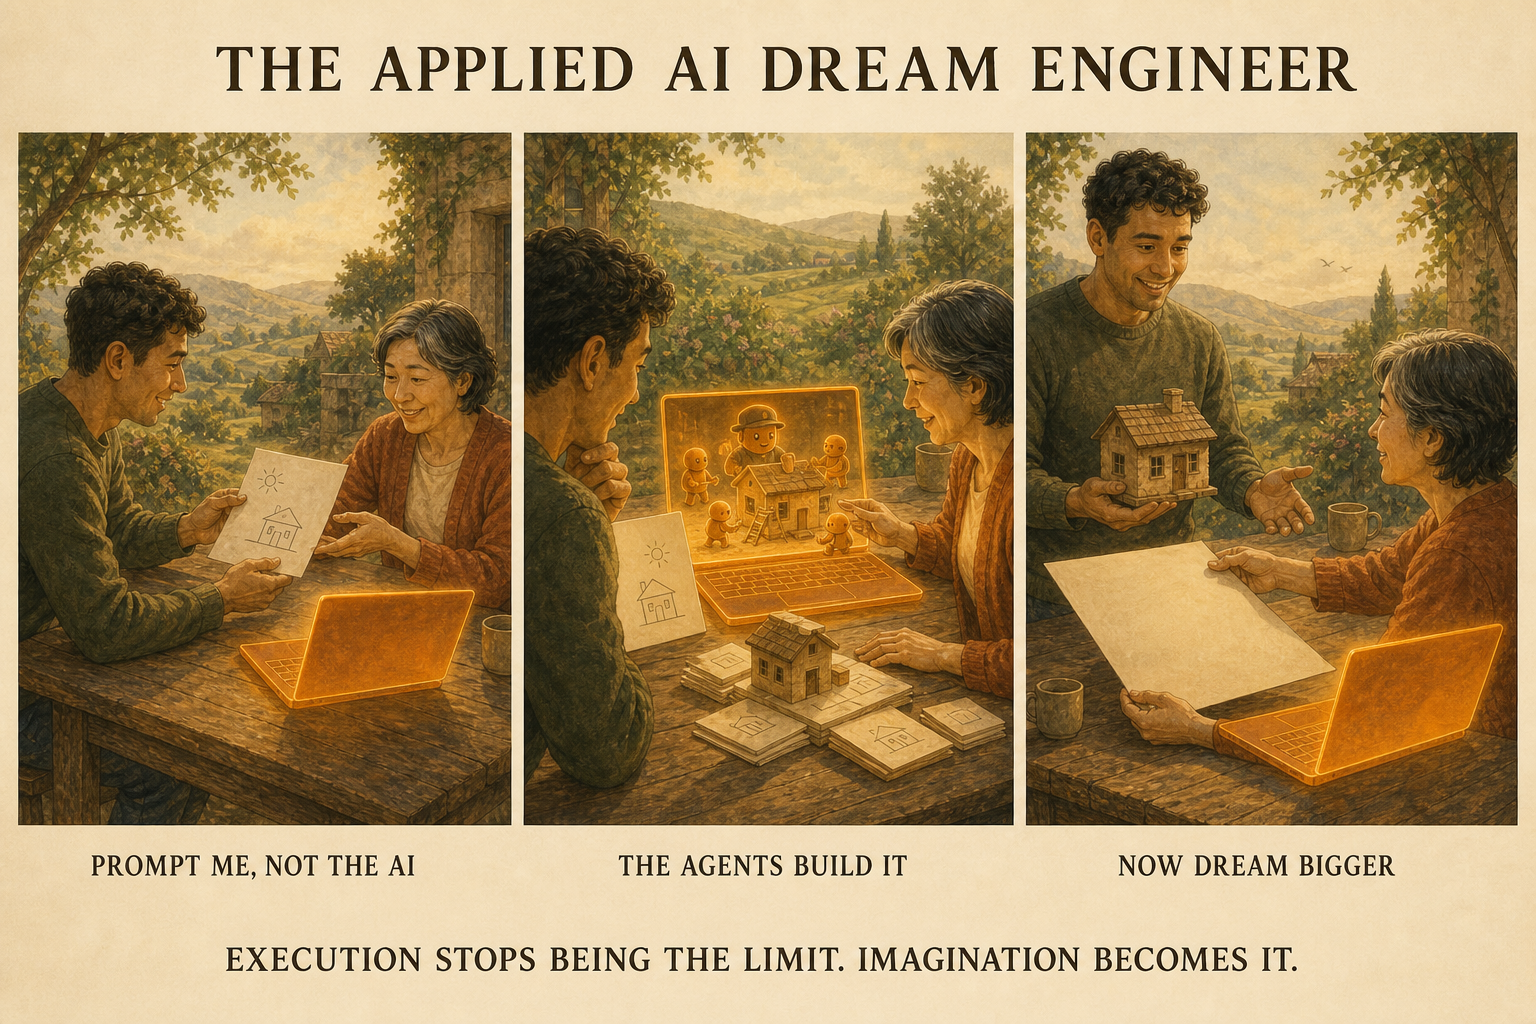
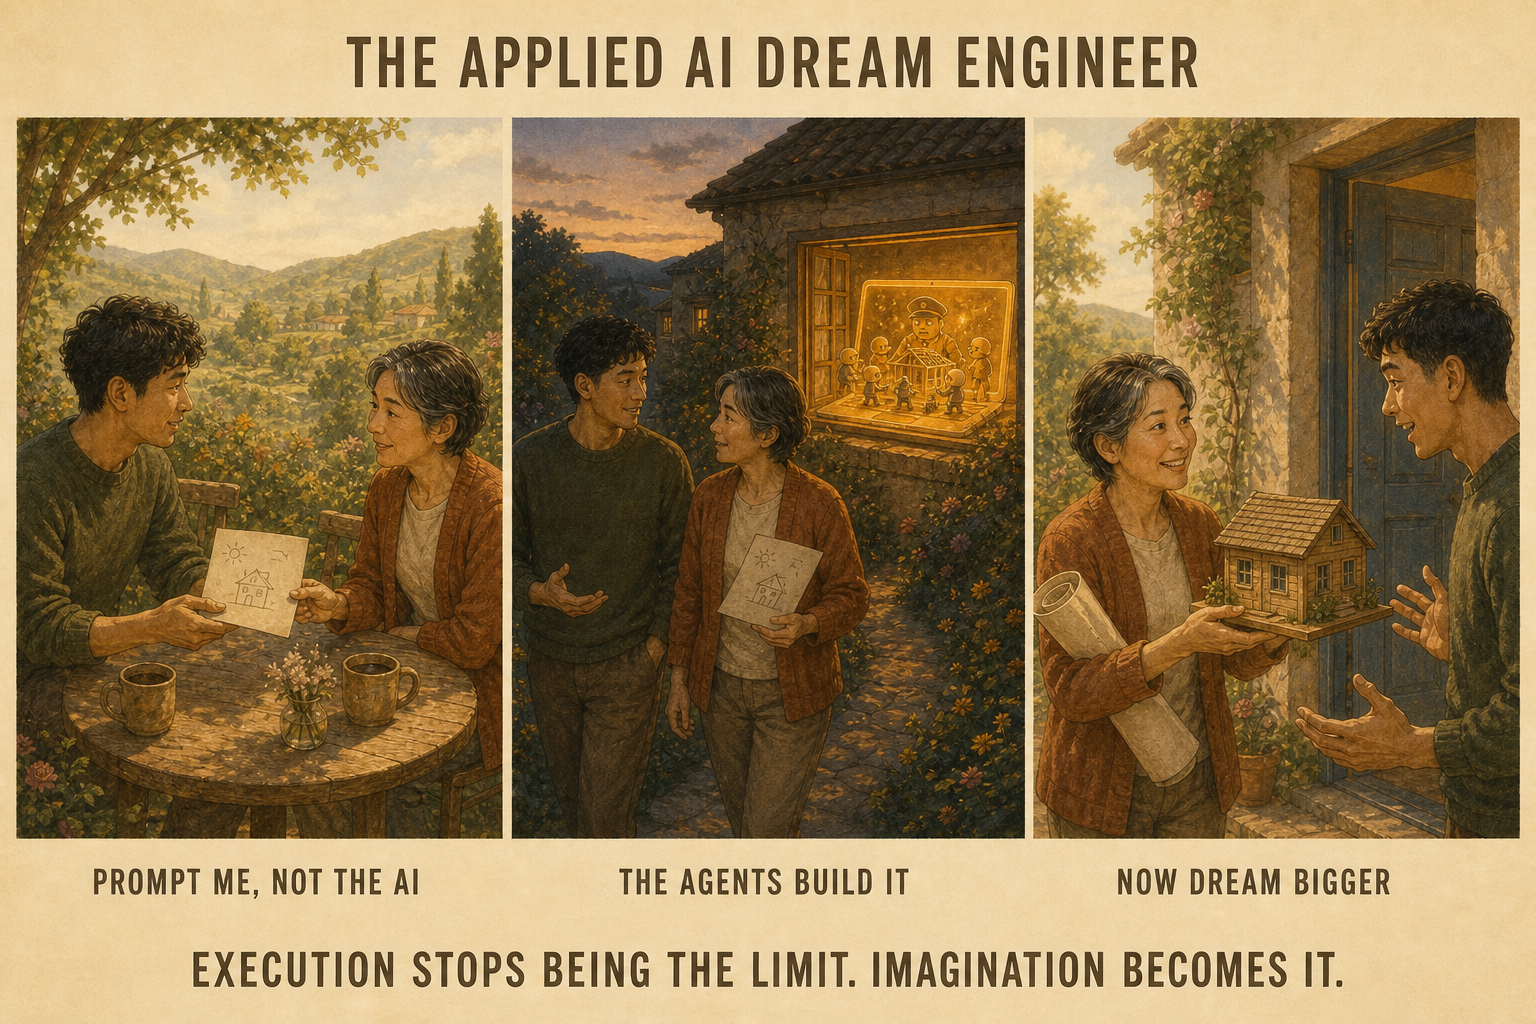
role hero v2: machinery stays offstage; align article

diff --git a/docs/roles/the-applied-ai-dream-engineer.md b/docs/roles/the-applied-ai-dream-engineer.md
@@ -9,7 +9,7 @@ image: "/img/comics/the-applied-ai-dream-engineer.png"
 
 *The operator who fuses applied AI engineering with life coaching and turns a person's articulated dreams into shipped reality so fast that the bottleneck moves off execution entirely. Some call the role an applied AI alchemist: raw aspiration in, shipped reality out.*
 
-![Three-panel warm editorial strip titled THE APPLIED AI DREAM ENGINEER. One, caption PROMPT ME, NOT THE AI: at a wooden table in a warm hillside garden, a young man in an olive sweater hands a small sketch of a house under a sun to a woman in a rust cardigan; a glowing translucent amber laptop sits open between them, quiet. Two, caption THE AGENTS BUILD IT: inside the glowing laptop screen a small rounded commander in a gold cap directs tiny rounded agents building the sketched house; finished pages and a little wooden house model stream out onto the table while the sketch stands propped beside the screen and both people watch. Three, caption NOW DREAM BIGGER: the man stands holding the finished house model, real in his hands, while the woman slides a much larger blank page across the table toward him, the laptop glowing at the edge. Footer: EXECUTION STOPS BEING THE LIMIT. IMAGINATION BECOMES IT.](/img/comics/the-applied-ai-dream-engineer.png)
+![Three-panel warm editorial strip titled THE APPLIED AI DREAM ENGINEER. One, caption PROMPT ME, NOT THE AI: two friends fully present over coffee at a garden table in a warm hillside landscape, no device anywhere; a young man in an olive sweater hands a woman in a rust cardigan a small sketch of a house under a sun. Two, caption THE AGENTS BUILD IT: the same two friends walk a garden path at dusk, still in conversation, the sketch in her hand, while behind them through a studio window a glowing translucent amber laptop works unattended, a small rounded commander in a gold cap directing tiny rounded agents building the sketched house. Three, caption NOW DREAM BIGGER: morning at his doorstep; she arrives carrying the finished wooden house model in both hands with a much larger blank page rolled under her arm, and he reacts with delight. No laptop in panels one and three; the machinery stays offstage. Footer: EXECUTION STOPS BEING THE LIMIT. IMAGINATION BECOMES IT.](/img/comics/the-applied-ai-dream-engineer.png)
 
 ---
 
@@ -34,6 +34,8 @@ The pitch a dream engineer makes to the people they serve is an inversion of eve
 For all of prior history, the distance between a dream and its realization was execution: skills, capital, coordination, time. The dream engineer collapses that distance for one person at a time, which is [the imagination economy](/concepts/the-imagination-economy) delivered as a relationship instead of a platform. And when execution stops being the constraint, [the constraint does not disappear, it relocates](/perspectives/making-one-layer-cheap-just-moves-the-bottleneck). It moves into the dreamer: the size of their imagination, and their courage to ask for what they actually want.
 
 This is why the working instruction to the people they serve is "prompt me, not the AI." The person never writes a system prompt. They speak their aspiration in plain words to someone who knows them, believes in them, and can transmute the ask into working systems. The interface to applied AI, for most people, is a trusted human who speaks AI.
+
+The machinery stays offstage. When the dream engineer is with the person, they are fully present; the systems cook in the background, and what the person experiences is a conversation, then a delivered artifact. A dream engineer who makes someone watch the tooling has mistaken the instrument for the relationship.
 
 The practical effect on the person is that dreaming becomes a skill they have to grow into. A friend's birthday arrives and the question is no longer "what can I afford to make" but "what do I wish existed": an album written for them and live on streaming platforms by morning. People who spent decades rationing their aspirations to match their execution capacity find the ration lifted, and most of them need months to trust it.
 
